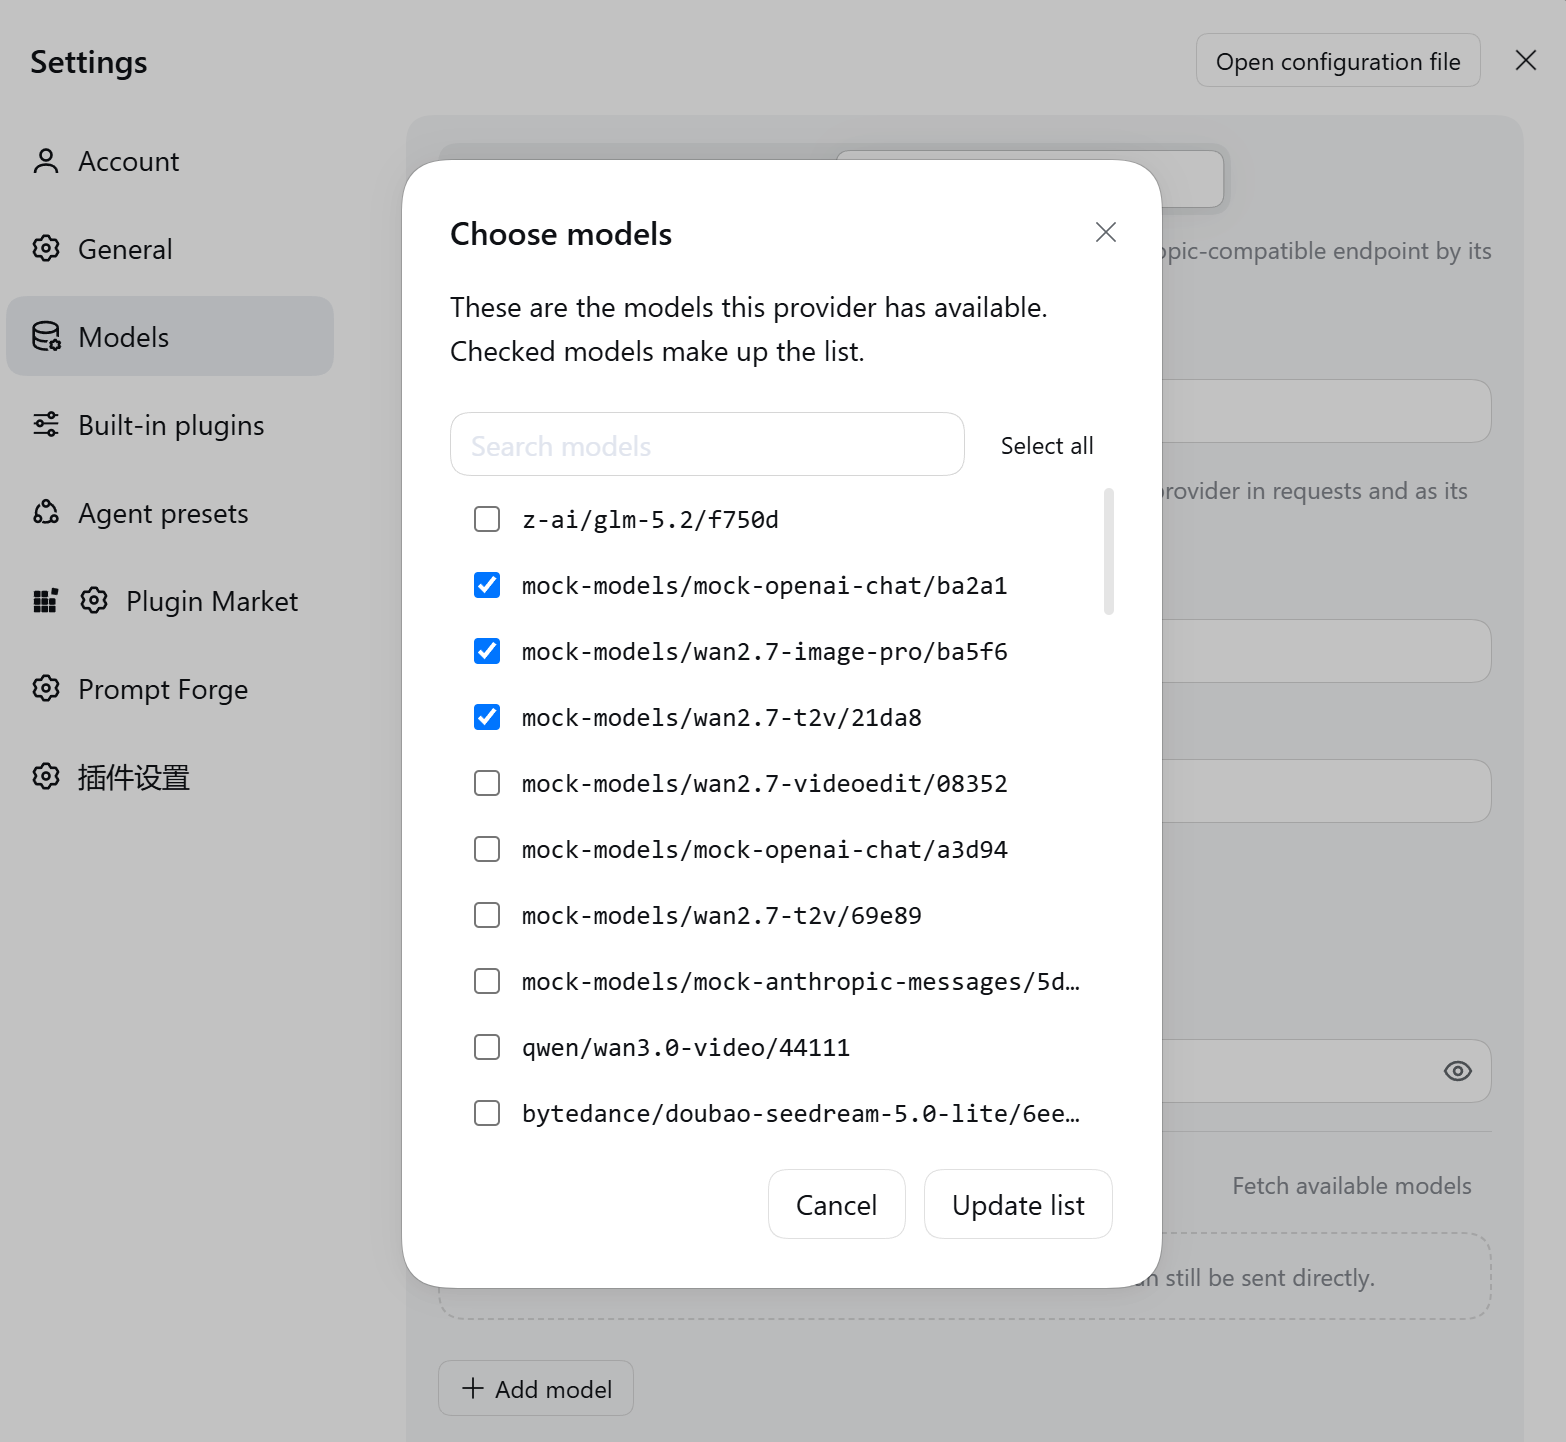
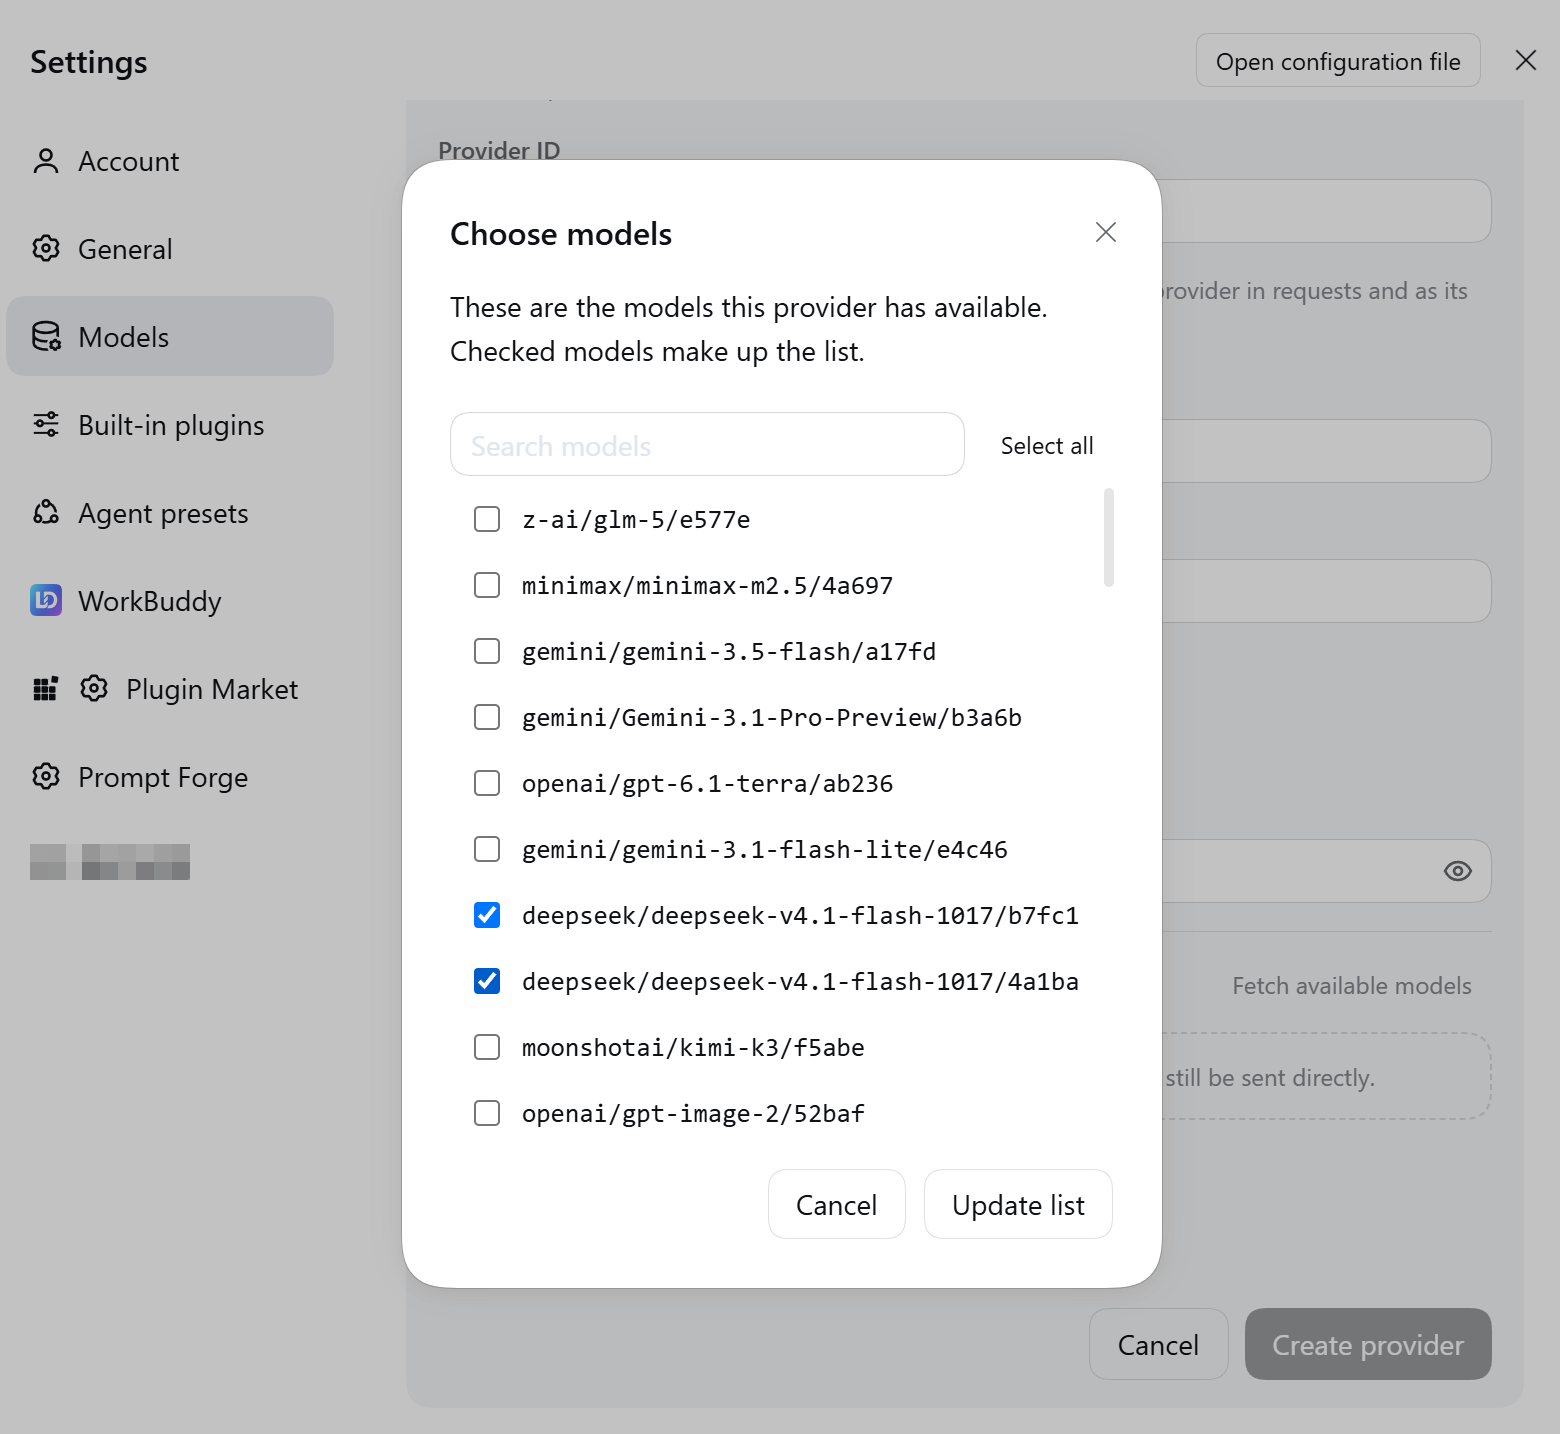
docs(practices): 更新DeepSeek Harness正式平台示例与中英文配图

diff --git a/docs/practices/technical/deepseek-harness/index.md b/docs/practices/technical/deepseek-harness/index.md
@@ -8,7 +8,7 @@ This guide explains how to configure AGIOne through **Custom model API**, fetch 
 2. Visit [AGIOne](https://agione.pro/), then register and sign in.
 3. Select a model in the model marketplace. Open its API or quick-start page to obtain the **Base URL**, **API Key**, and complete **Model ID**. Check which API protocols the model supports.
 
-> The screenshots supplied for this guide show a test environment. Provider names, endpoint addresses, and model entries are examples, not production configuration. Use the connection details from your own AGIOne platform, not the test endpoint or Mock models shown there.
+> These screenshots show example settings for the AGIOne global platform. Provider names and model entries are for reference. Use the connection details from your own AGIOne platform; the screenshots do not verify model responses or tool calls.
 
 ## Configure the Model Provider
 
@@ -26,7 +26,7 @@ Select **Custom model API** in the add-provider area.
 | --- | --- |
 | Provider ID | A unique identifier, such as `agione`. Start with a lowercase letter, followed by lowercase letters, digits, or dashes. Do not reuse an existing provider ID |
 | Display name | A name of your choice, such as `AGIOne` |
-| Base URL | Copy the base endpoint for the selected protocol from the AGIOne API page. Use the actual value shown for either the public platform or a dedicated deployment, not the test address in the supplied screenshot |
+| Base URL | Copy the base endpoint for the selected protocol from the AGIOne API page. The screenshot example is `https://agione.pro/hyperone/xapi/api`; use the actual value shown on the API page for either the public platform or a dedicated deployment |
 | API protocol | The supplied example selects `OpenAI Responses`. Before using it, confirm that both the model and endpoint support Responses. For other models, select the protocol specified on their API page |
 | API key | Enter the AGIOne API Key. If the page labels it `Authentication TOKEN`, obtain it there |
 
@@ -42,7 +42,7 @@ The protocol menu also supports `OpenAI Chat Completions` and `Anthropic Message
 
 ![Check the required models in Choose models, then click Update list](./images/deepseek-harness-select-models.png)
 
-For coding, select a model on your platform that supports text conversations and the tool calls you need. Do not copy the image, video, or Mock model choices from the test example.
+The example shows DeepSeek models checked in the list. For coding, select a model on your platform that supports text conversations and the tool calls you need. Copy the complete Model ID from the API page, not a truncated screenshot field. Do not select an image or video model for a text coding task.
 
 If the endpoint returns no models, click **+ Add model**. Enter the complete Model ID copied from AGIOne and set a display name. A custom model API requires at least one model.
 
@@ -51,7 +51,7 @@ If the endpoint returns no models, click **+ Add model**. Enter the complete Mod
 1. Review the Model IDs and display names in the catalog.
 2. Check the Base URL, API protocol, and API key.
 3. Click **Create provider** in the lower-right corner.
-4. Return to the provider list and confirm that the new **AGIOne** entry appears.
+4. Return to the provider list and confirm that an entry with your chosen display name appears, such as **AGIOne** or `agione-pro`.
 
 ![Review the model catalog and click Create provider](./images/deepseek-harness-create-provider.png)
 
@@ -72,6 +72,6 @@ A normal model response and a matching AGIOne call record confirm connectivity f
 - **Empty model catalog**: Fetch the available models or add a complete Model ID manually. Keep at least one model.
 - **Model listed but conversation not working**: Compare the Base URL, API protocol, API key, and Model ID with the AGIOne API page, then inspect the matching call logs.
 
-> Screenshot status: This page uses the user-supplied English UI originals. The plugin settings entry retains its Chinese label in these captures. The supplied originals have not been recaptured to standardize the window size or remove the model-picker backdrop.
+> Screenshot status: This page uses the user-supplied English UI originals. The sidebar masking is retained from the supplied originals. Provider IDs and display names are illustrative; use your own consistent values. The supplied originals have not been recaptured to standardize the window size or remove the model-picker backdrop.
 
 *Evidence: User-supplied English UI screenshots; field labels and protocol options were also checked against the local DeepSeek Harness 0.2.2-rc.1 UI implementation. No live API integration result is recorded here; the response-test steps guide readers through validating their own configuration.*
